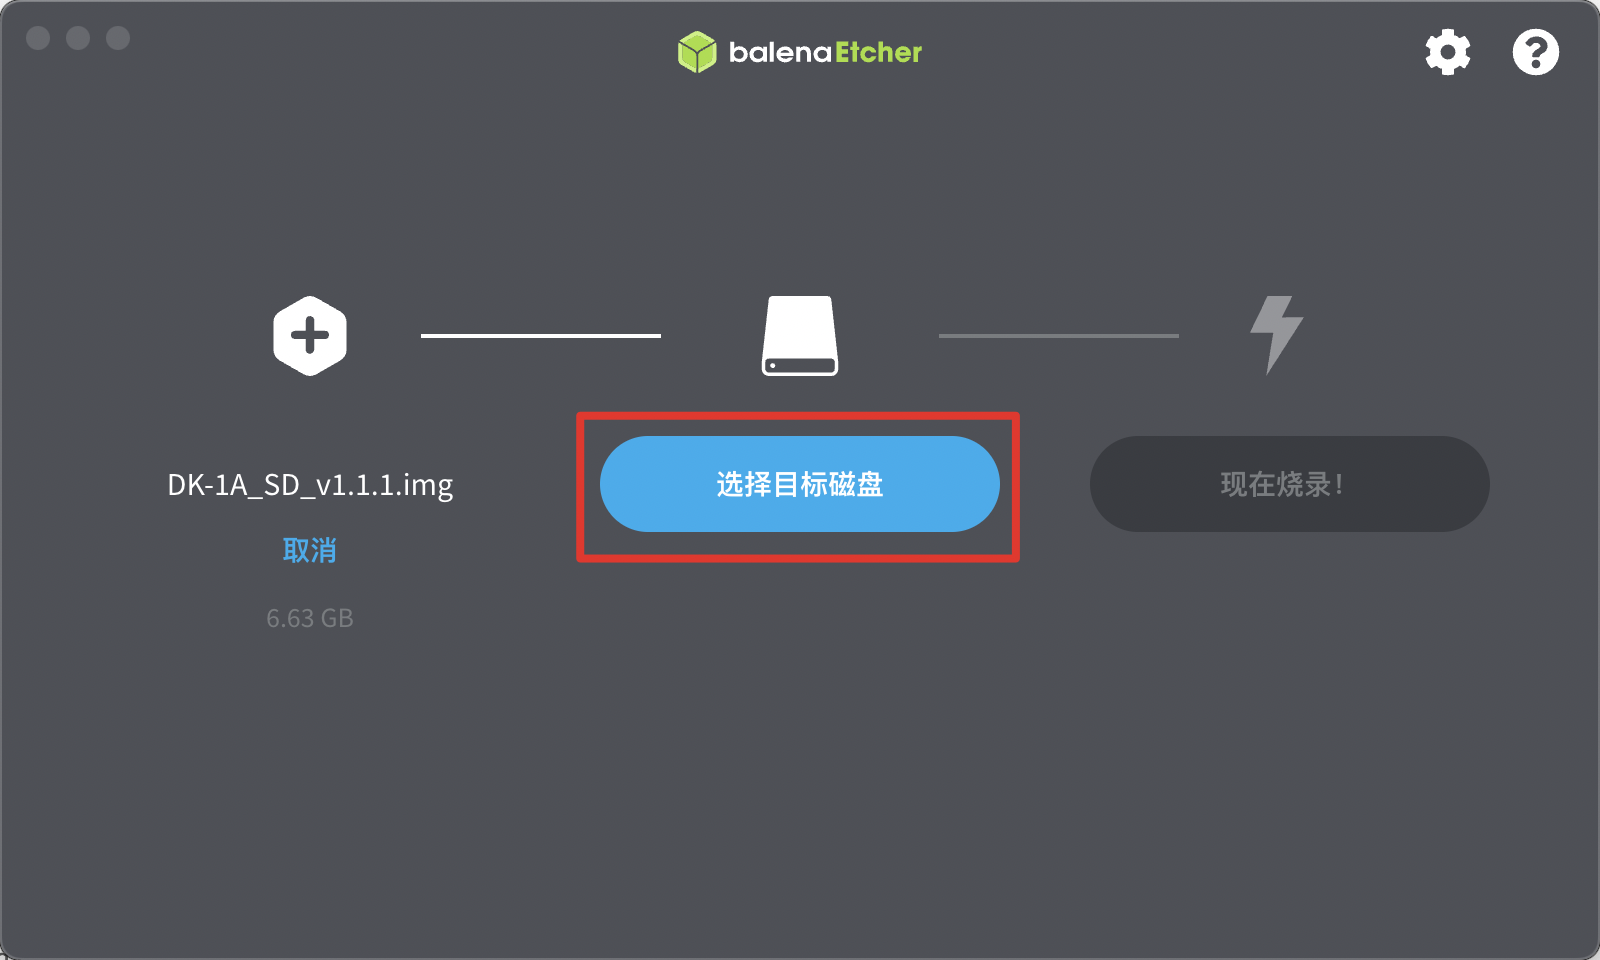
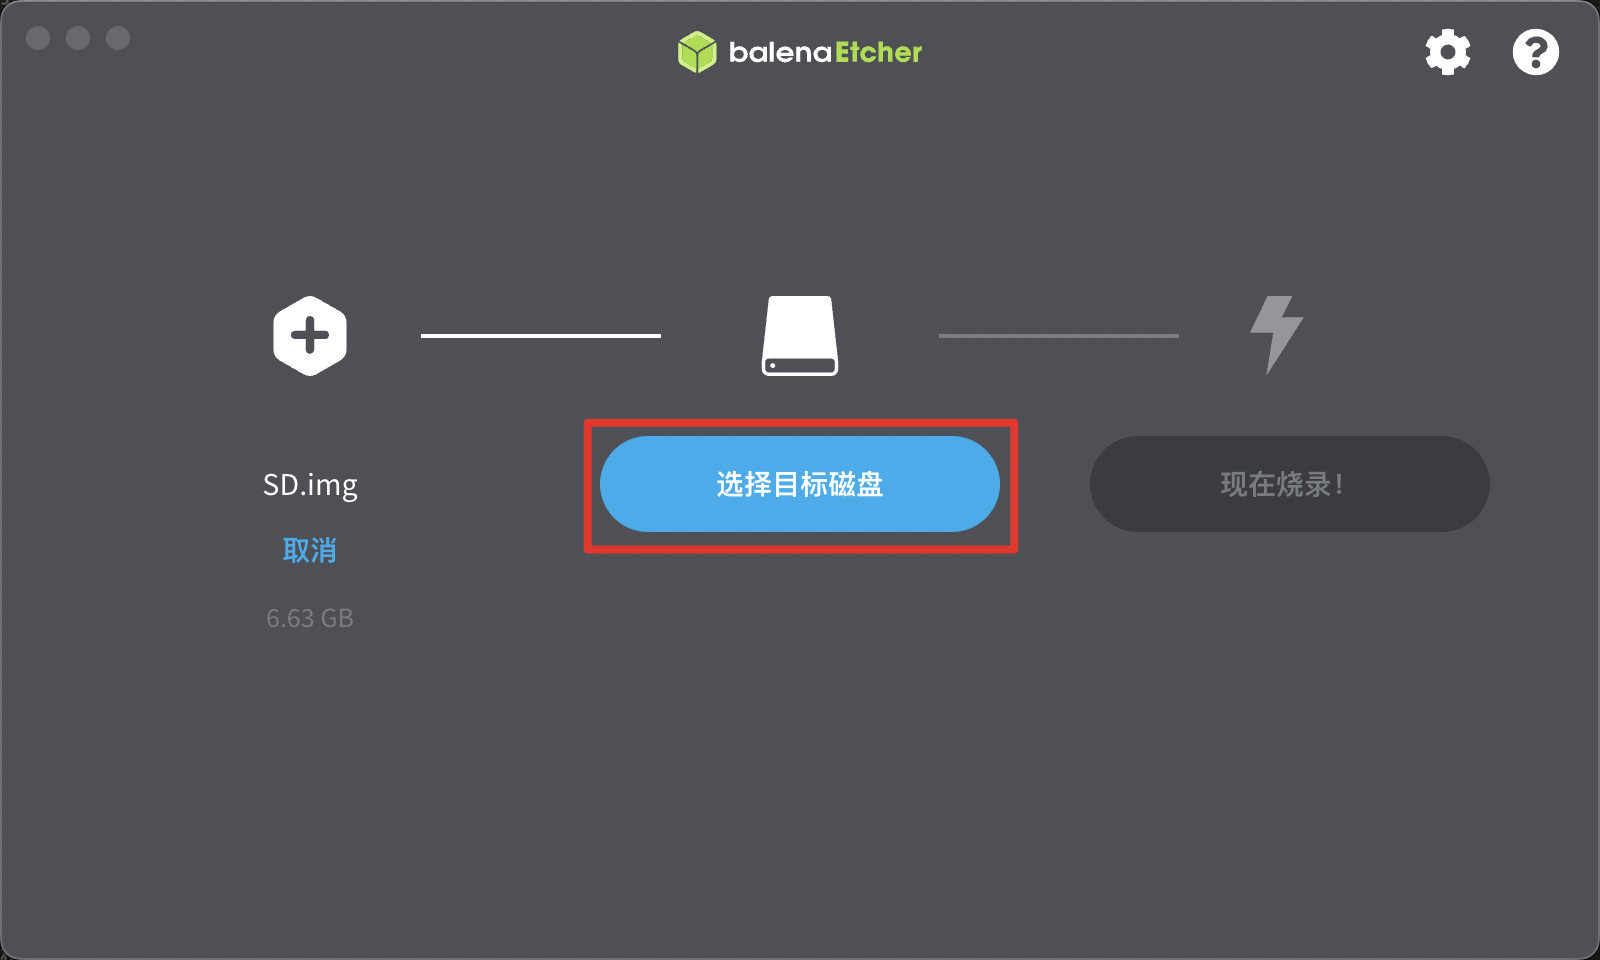
更新MicroSD卡引导启动

Changed region(s): [[0.3438, 0.4062, 0.6562, 0.5938], [0.0938, 0.5, 0.2812, 0.5312]]

diff --git a/系统相关.md b/系统相关.md
@@ -30,9 +30,16 @@ sudo reboot
 
 ## 系统镜像烧写
 
-默认版本内置系统镜像
+默认版本eMMC内置系统镜像，即可直接使用eMMC引导启动系统。  
 
-### 准备工作
+为满足部分用户需求，***PPOS1.1.2***之后版本并行提供MicroSD卡引导启动模式。  
+优先级设定为：MicroSD卡引导启动模式 > eMMC引导启动模式，即插入有引导镜像的MicroSD卡时，优先使用MicroSD卡引导启动。  
+
+两种引导启动模式烧写方法如下：
+
+### eMMC引导启动模式-镜像烧写
+
+#### 准备工作_eMMC
 
 - 系统烧录工具 **SOC UBoot升级工具 V1.0.0.0** ，点击[此处](https://pp-os.bj.bcebos.com/vs680/tools/burn/SenarySocUpdateToolSetupV1.0.0.0.exe)下载；  
 - 更新镜像文件，下载地址[PPOSv1.1.2](https://pp-os.bj.bcebos.com/vs680/system/dk1a-generic-1.1.2-system.zip) ，MD5：ab9f4de8096e25d306813263e8c61c0b ，并解压。  
@@ -81,19 +88,19 @@ sudo reboot
     </tbody>
 </table>
 
-### Step1
+#### Step1_eMMC
 
 双击打开系统烧录工具 **SOC UBoot升级工具 V1.0.0.0** ，点击 **浏览** 按钮。
 
 ![SOC UBoot升级工具 V1.0.0.0](./images/SOC_UBoot升级工具_V1.0.0.0.png)
 
-### Step2
+#### Step2_eMMC
 
 在弹出的对话框中，选择解压后获得的更新镜像的文件夹 **eMMCimg** 文件夹，并点击 **选择文件夹** 按钮。
 
 ![选择升级用镜像文件夹](./images/选择升级用镜像文件夹.png)
 
-### Step3
+#### Step3_eMMC
 
 <font color = "red">长按</font>板卡上的Reset按键<font color = "red">不放开</font>，使用USB TypeC连接线将开发板与电脑连接，此时程序识别到设备， **启动烧写** 按钮变绿，<font color = "red">再松开</font>Reset按键，点击启动烧写。
 
@@ -101,25 +108,81 @@ sudo reboot
 
 ![启动镜像烧写](./images/启动镜像烧写.png)
 
-### Step4
+#### Step4_eMMC
 
 弹出镜像路径确认对话框，确认后点击 **继续烧写** 按钮。
 
 ![确认镜像烧写路径](./images/确认镜像烧写路径.png)
 
-### Step5
+#### Step5_eMMC
 
 烧写时长视镜像大小不同而异，一般耗时约5分钟。烧写完成后显示 **烧写完成（100%）** ，断开板卡与电脑连接，重新上电即可。
 
 ![烧写完成](./images/烧写完成.png)
 
-### Step6
+#### Step6_eMMC
 
 开机后在终端输入命令以完成扩容。
 
 ```shell
 sudo resize2fs /dev/mmcblk0p16
 ```
+
+### MicroSD卡引导启动-镜像烧写
+
+MicroSD卡引导启动需先完成eMMC镜像烧写，烧写完成后，再进行SD卡引导启动的镜像烧写，且需保持镜像版本号一致。
+
+> **注意**：
+>
+> - MicroSD卡引导启动模式仅支持PPOS1.1.2及以上版本。
+
+#### 准备工作_MicroSD
+
+- 一张MicroSD卡，容量不低于16GB；
+
+- SD卡烧录工具**balenaEtcher** ，点击[此处](https://etcher.balena.io/#download-etcher)选择合适的版本下载并安装；
+
+- 更新镜像文件，同eMMC镜像下载包，详见[eMMC引导启动-准备工作](#准备工作_eMMC)；
+
+#### Step1_MicroSD
+
+将MicroSD卡插入电脑，并打开balenaEtcher；
+
+![balenaEtcher_主界面](./images/balenaEtcher_主界面.png)
+
+#### Step2_MicroSD
+
+在balenaEtcher界面中选择“从文件烧录”，并在对话框中选择解压后以.img尾缀的镜像文件；
+
+![balenaEtcher_选择镜像](./images/balenaEtcher_选择镜像.png)
+
+![balenaEtcher_选择镜像_2](./images/balenaEtcher_选择镜像_2.png)
+
+#### Step3_MicroSD
+
+点击“选择目标磁盘”按钮，选择SD卡所在盘符；
+
+![balenaEtcher_选择目标磁盘](./images/balenaEtcher_选择目标磁盘.png)
+
+![balenaEtcher_选择目标磁盘_2](./images/balenaEtcher_选择目标磁盘_2.png)
+
+#### Step4_MicroSD
+
+点击“现在烧录！”按钮，开始烧录；
+
+![balenaEtcher_现在烧录](./images/balenaEtcher_现在烧录.png)
+
+#### Step5_MicroSD
+
+等待烧录完成；
+
+![balenaEtcher_烧录完成](./images/balenaEtcher_烧录完成.png)
+
+#### Step6_MicroSD
+
+将SD卡从电脑中拔出，并插入到DK-1A的MicroSD卡槽中，通电即可正常开机启动。
+
+![插入MicroSD卡](./images/插入MicroSD卡.png)
 
 ## Samba文件共享
 
